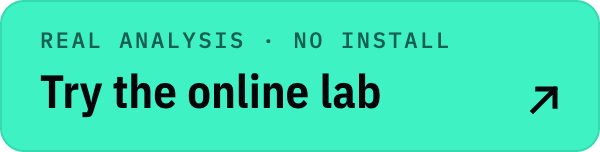
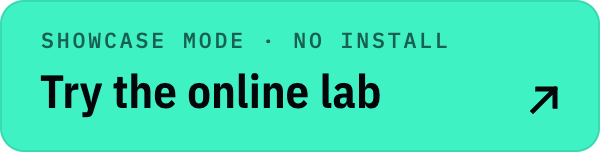
README lab button says showcase mode; booth docs name the real engine chip
- docs/readme/btn-lab.png: the "Try the online lab" button said "REAL ANALYSIS · NO INSTALL", but the online lab
  runs in showcase mode (no online engine). Caption is now "SHOWCASE MODE · NO INSTALL"; nothing else in the image changed.
- docs/PITCH.md, docs/SETUP_WINDOWS.md, docs/ARCHITECTURE.md: the booth checklists told the team to look for
  "Online · CPU" in the lab header; the lab on the booth laptop actually shows "Engine · This laptop"
  ("This laptop · 3/4 models" when a model is missing).

Changed region(s): [[0.06, 0.2105, 0.42, 0.3158], [0.57, 0.2105, 0.75, 0.3158], [0.48, 0.2105, 0.54, 0.3158]]

diff --git a/docs/ARCHITECTURE.md b/docs/ARCHITECTURE.md
@@ -162,7 +162,7 @@ These describe the shipped behaviour; nothing in the API contract above changed.
   Its `metrics` include `GenD_mean_P(fake)`, `B7_mean_P(fake)`, their FF++ thresholds, frames with a face,
   `networks_voting`, `one_sided: true`; its `visual` is the grid of the 8 aligned faces with per-frame scores.
 - **`/api/health`** `models` gains `face_swap` (true when loaded, or when switched off with `VERITAS_FACESWAP=off`);
-  `detail.model_names.face_swap` names the active mode. The lab shows "Online · 3/4 models" if it is missing.
+  `detail.model_names.face_swap` names the active mode. The lab shows "This laptop · 3/4 models" if it is missing.
 - **`timeline`** points may carry `swap` (the face-swap detector's per-frame score, on its 8 frames). **`keyframes`**
   carry `by`: `ai_face` | `face_swap` | `ai_generated` (which test rated that frame most suspicious).
 - **`web/data/results.json`**: `video.benchmark` = the 75-clip benchmark (`parts.{ffpp,celebdf,dfd,cross,all}.

diff --git a/docs/SETUP_WINDOWS.md b/docs/SETUP_WINDOWS.md
@@ -122,7 +122,7 @@ demo scores move (the chapter-05 Wav2Lip clip would read 64, not 70). Videos tak
 1. [ ] Setup ended with `ALL DONE`; `setup-log.txt` shows `ALL PASS`. The black window prints the face-swap mode.
 2. [ ] Cold start of VERITAS (first after setup) and warm start: write both times down.
 3. [ ] `http://127.0.0.1:8000/api/health` shows `"ok": true` and all four models `true` (the lab header says
-       "Online · CPU", not "3/4 models"). Run the story on the TV. Analyse every locker exhibit.
+       "This laptop", not "This laptop · 3/4 models"). Run the story on the TV. Analyse every locker exhibit.
 4. [ ] **RAM and time.** With the story (TV) and the lab open, open Task Manager. Analyse the **Real talking video**
        exhibit three times; write down the time, the `python.exe` memory and **Performance -> Memory -> Available**.
        Under about 1 GB available: force `int8`. A video over 40 s: `int8` (about 5 s faster) or `b7` (about 14 s

diff --git a/docs/PITCH.md b/docs/PITCH.md
@@ -39,7 +39,7 @@ shows `07 / 51`).
 
 - [ ] Charger plugged in. Wi-Fi **off**. `scripts\start_windows.bat` is running, with the black window minimised.
 - [ ] Tab 1: the story at `http://127.0.0.1:8000/`. Tab 2: the lab at `http://127.0.0.1:8000/lab.html#analyze`,
-      with the engine light green ("Online · CPU").
+      with the engine light green ("Engine · This laptop").
 - [ ] Morning warm-up: in the story, press → through all 51 steps once so every image and demo is loaded, then
       press **Home**. Press **F** for fullscreen. The counter should read `01 / 51`.
 - [ ] Lab warm-up: analyse one exhibit from the locker so the models are in memory (the first analysis is the
